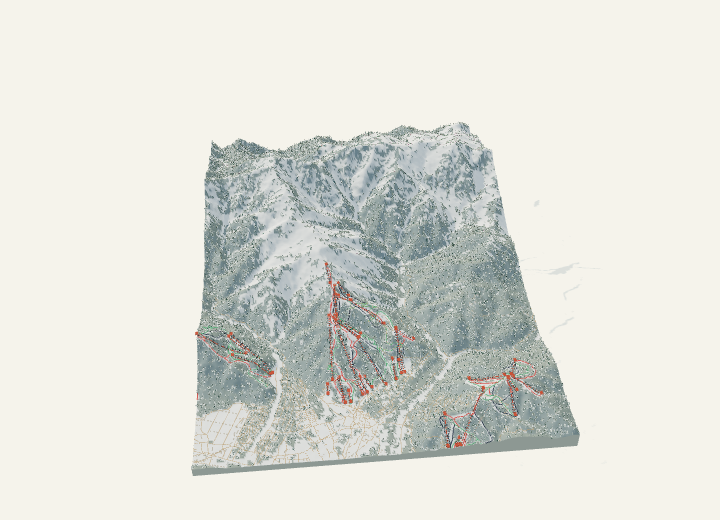
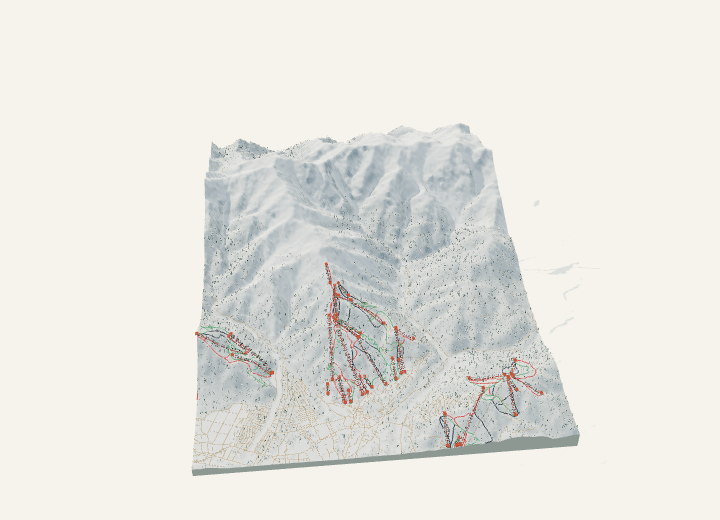
Correct Japanese winter forest rendering and consolidate map controls

Changed region(s): [[0.275, 0.2154, 0.825, 0.9231]]

diff --git a/src/main.ts b/src/main.ts
@@ -61,10 +61,10 @@ app.innerHTML=`
     <div class="map-tools" aria-label="Map controls"><button id="reset-view" title="Reset view" aria-label="Reset map view">${icon('compass')}</button><div class="zoom-tools"><button id="zoom-in" aria-label="Zoom in">${icon('plus')}</button><button id="zoom-out" aria-label="Zoom out">${icon('minus')}</button></div><button id="motion-toggle" aria-label="Pause mountain animation" title="Pause mountain animation">${icon('pause')}</button><button id="sound-toggle" aria-label="Enable mountain ambience" aria-pressed="false" title="Mountain ambience">${icon('muted')}</button></div>
     <div class="compass-rose" aria-hidden="true"><span>N</span><svg viewBox="0 0 64 64"><path d="M32 9 37 32 32 55 27 32Z" fill="none" stroke="currentColor"/><path d="m9 32 23-5 23 5-23 5Z" fill="none" stroke="currentColor"/><path d="m32 9 5 23h-5Z" fill="currentColor"/></svg></div>
     <section class="bottom-deck" aria-label="Weather">
-      <button id="settings-toggle" aria-expanded="false" aria-controls="rider-settings">Settings</button><button id="weather-drawer" aria-expanded="false" aria-controls="weather-timeline">Weather <span>＋</span></button><div class="timeline" id="weather-timeline" hidden><div class="timeline-heading"><span>${icon('snow')}<span id="timeline-title">Demo weekend</span></span><output id="time-label" for="time-slider">Saturday, 9 am</output></div><div class="timeline-controls"><button id="timeline-play" aria-label="Play weekend forecast">${icon('play')}</button><div class="slider-wrap"><input id="time-slider" type="range" min="0" max="48" step="1" value="17" aria-label="Explore forecast time"/><div class="time-ticks"><span id="tick-start">FRI · 4 PM</span><span id="tick-mid">SATURDAY</span><span id="tick-end">SUN · 4 PM</span></div></div></div></div>
+      <button id="settings-toggle" aria-expanded="false" aria-controls="rider-settings">Controls</button><button id="weather-drawer" aria-expanded="false" aria-controls="weather-timeline">Weather <span>＋</span></button><div class="timeline" id="weather-timeline" hidden><div class="timeline-heading"><span>${icon('snow')}<span id="timeline-title">Demo weekend</span></span><output id="time-label" for="time-slider">Saturday, 9 am</output></div><div class="timeline-controls"><button id="timeline-play" aria-label="Play weekend forecast">${icon('play')}</button><div class="slider-wrap"><input id="time-slider" type="range" min="0" max="48" step="1" value="17" aria-label="Explore forecast time"/><div class="time-ticks"><span id="tick-start">FRI · 4 PM</span><span id="tick-mid">SATURDAY</span><span id="tick-end">SUN · 4 PM</span></div></div></div></div>
     </section>
     <aside id="rider-settings" class="rider-settings" aria-labelledby="settings-title" hidden>
-      <div class="settings-heading"><h2 id="settings-title">Settings</h2><button id="close-settings" aria-label="Close settings">${icon('close')}</button></div>
+      <div class="settings-heading"><h2 id="settings-title">Controls</h2><button id="close-settings" aria-label="Close settings">${icon('close')}</button></div>
       ${(['skier','snowboarder'] as const).map(kind=>`<fieldset><legend>${kind==='skier'?'Skiers':'Snowboarders'}</legend><label class="settings-visibility"><span>Visible</span><input id="${kind}-visible" type="checkbox" data-rider-setting="${kind==='skier'?'skiers':'snowboarders'}" /></label><label class="settings-range" for="${kind}-size"><span>Size <output id="${kind}-size-value" for="${kind}-size"></output></span><input id="${kind}-size" data-rider-setting="${kind}Size" type="range" min="0.5" max="2" step="0.05" /></label><label class="settings-range" for="${kind}-speed"><span>Speed <output id="${kind}-speed-value" for="${kind}-speed"></output></span><input id="${kind}-speed" data-rider-setting="${kind}Speed" type="range" min="0" max="3" step="0.1" /></label></fieldset>`).join('')}
       <fieldset class="ecology-settings"><legend>Nature</legend><p id="ecology-description"></p><label class="settings-visibility"><span>Wildlife</span><input id="wildlife-visible" type="checkbox" checked /></label></fieldset>
       <p id="rider-settings-note">Size and speed are relative to the default.</p><button id="reset-rider-settings">Reset</button>
@@ -74,6 +74,15 @@ app.innerHTML=`
   <div id="toast" role="status" aria-live="polite"></div>
   <dialog id="about-dialog"><button id="close-about" aria-label="Close data notes">${icon('close')}</button><h2>Sources</h2><p>Terrain: <a href="https://github.com/tilezen/joerd/blob/master/docs/attribution.md" target="_blank" rel="noopener">Mapzen</a>. Trails, lifts, roads and buildings: <a href="https://www.openstreetmap.org/copyright" target="_blank" rel="noopener">OpenStreetMap · ODbL</a>. Forest cover: <a href="https://doi.org/10.5281/zenodo.7254221" target="_blank" rel="noopener">ESA WorldCover · CC BY 4.0</a>.</p><p>Terrain and routes use mapped coordinates. Trees, regional species mixes, wildlife, building heights, lift structures and moving riders are illustrative. Lift capacities link to their sources; missing specs and retired lifts are labeled. Coverage and conditions can differ from the official trail map.</p><p>Demo weather is simulated. Live weather uses <a href="https://open-meteo.com/" target="_blank" rel="noopener">Open-Meteo</a> forecasts, not observed snowfall or lift status. Pass access varies by season and pass.</p><p><a id="download-geodata" download>Download mountain data ↗</a></p></dialog>`;
 const $=<T extends HTMLElement=HTMLElement>(s:string)=>document.querySelector<T>(s)!;
+// Keep the map quiet: existing accessible controls live in one collapsible panel.
+const mapOptions=document.createElement('section');mapOptions.className='map-options';
+mapOptions.setAttribute('aria-label','Map controls');
+for(const selector of ['.main-nav','.terrain-controls','.map-tools'])mapOptions.append($(selector));
+$('#rider-settings').insertBefore(mapOptions,$('#rider-settings fieldset'));
+const weatherOptions=document.createElement('section');weatherOptions.className='weather-options';
+weatherOptions.setAttribute('aria-label','Weather controls');
+for(const selector of ['#weather-switch','#weather-drawer','#weather-timeline'])weatherOptions.append($(selector));
+mapOptions.after(weatherOptions);
 let atlas:AtlasScene | undefined;
 function ensureAtlas(){if(atlas)return;try{atlas=new AtlasScene($('#scene'),$('#map-labels'),id=>selectResort(id,true));atlas.riderSettings={...riderSettings};atlas.showWildlife=wildlifeVisible;}catch{$('#scene').innerHTML='<div class="canvas-error">3D map unavailable. Try a browser with WebGL enabled.</div>';}}
 let galleryScroll=0;
@@ -149,11 +158,11 @@ $('#motion-toggle').onclick=()=>{if(!atlas)return;const wasPaused=atlas.paused||
 for(const el of document.querySelectorAll<HTMLButtonElement>('[data-region]'))el.onclick=()=>setRegion(el.dataset.region as Region);
 for(const el of document.querySelectorAll<HTMLButtonElement>('[data-pass]'))el.onclick=()=>{pass=el.dataset.pass as Pass;const list=visibleResorts();renderList();};
 let guideTrigger:HTMLElement|null=null;
-function toggleGuide(open:boolean){if(open)toggleSettings(false);if(open&&$('#field-guide').hidden)guideTrigger=document.activeElement as HTMLElement;$('#field-guide').hidden=!open;document.body.classList.toggle('guide-open',open);$('#atlas-tab').setAttribute('aria-expanded',String(open));$('#saved-tab').setAttribute('aria-expanded',String(open&&view==='saved'));if(open)$('#close-guide').focus();}
+function toggleGuide(open:boolean){if(open)toggleSettings(false);if(open&&$('#field-guide').hidden)guideTrigger=$('#rider-settings').contains(document.activeElement)?$('#settings-toggle'):document.activeElement as HTMLElement;$('#field-guide').hidden=!open;document.body.classList.toggle('guide-open',open);$('#atlas-tab').setAttribute('aria-expanded',String(open));$('#saved-tab').setAttribute('aria-expanded',String(open&&view==='saved'));if(open)$('#close-guide').focus();}
 $('#atlas-tab').setAttribute('aria-controls','field-guide');$('#atlas-tab').setAttribute('aria-expanded','false');
 $('#atlas-tab').onclick=()=>{view='atlas';render();toggleGuide($('#field-guide').hidden);};$('#saved-tab').onclick=()=>{view='saved';explorer='places';renderList();toggleGuide(true);};
 $('#close-guide').onclick=()=>{toggleGuide(false);guideTrigger?.focus();};
-$('#weather-drawer').onclick=()=>{toggleSettings(false);const open=$('#weather-timeline').hidden;$('#weather-timeline').hidden=!open;$('#weather-drawer').setAttribute('aria-expanded',String(open));$('#weather-drawer span').textContent=open?'−':'＋';};
+$('#weather-drawer').onclick=()=>{const open=$('#weather-timeline').hidden;$('#weather-timeline').hidden=!open;$('#weather-drawer').setAttribute('aria-expanded',String(open));$('#weather-drawer span').textContent=open?'−':'＋';};
 window.addEventListener('keydown',e=>{if(e.key==='Escape'){if(!$('#rider-settings').hidden){toggleSettings(false);$('#settings-toggle').focus();return;}if(!$('#field-guide').hidden){toggleGuide(false);guideTrigger?.focus();}else if(!$('#route-card').hidden){$('#route-card').hidden=true;atlas?.clearFocus();atlas?.renderer.domElement.focus();}else if(!$('#weather-timeline').hidden)$('#weather-drawer').focus();$('#weather-timeline').hidden=true;$('#weather-drawer').setAttribute('aria-expanded','false');$('#weather-drawer span').textContent='＋';}});
 const dialog=$<HTMLDialogElement>('#about-dialog');$('#about-button').onclick=()=>dialog.showModal();$('#close-about').onclick=()=>dialog.close();dialog.addEventListener('click',e=>{if(e.target===dialog){const r=dialog.getBoundingClientRect();if(e.clientX<r.left||e.clientX>r.right||e.clientY<r.top||e.clientY>r.bottom)dialog.close();}});
 let audio:AudioContext|undefined,audioGain:GainNode|undefined,audioEnabled=false;

diff --git a/src/ecology.ts b/src/ecology.ts
@@ -1,20 +1,23 @@
 import type { Resort } from './data';
 export type TreeForm='pine'|'fir'|'spruce'|'hemlock'|'birch'|'aspen'|'larch';
 export type AnimalForm='deer'|'elk'|'chamois'|'serow'|'hare';
-export interface Ecology {id:string;name:string;trees:TreeForm[];colors:number[];density:number;treeline:number;wildlife:AnimalForm;animalName:string;understory:string;}
+export interface Ecology {id:string;name:string;trees:TreeForm[];colors:number[];density:number;treeline:number;wildlife:AnimalForm;animalName:string;understory:string;winterTint?:number;bareUpper?:boolean;}
 const profiles:Record<string,Ecology>={
  sierra:{id:'sierra',name:'Sierra pine & fir',trees:['pine','pine','fir'],colors:[0x5b7256,0x758467,0x436654],density:.8,treeline:3200,wildlife:'deer',animalName:'Mule deer',understory:'Low evergreen scrub'},
  coastal:{id:'coastal',name:'Coastal hemlock & fir',trees:['hemlock','hemlock','fir'],colors:[0x315c50,0x46695a,0x537464],density:1,treeline:1900,wildlife:'deer',animalName:'Black-tailed deer',understory:'Snow-covered shrubs'},
  interior:{id:'interior',name:'Interior spruce & pine',trees:['spruce','pine','fir'],colors:[0x48665c,0x5d7866,0x668176],density:.9,treeline:2350,wildlife:'deer',animalName:'Mule deer',understory:'Low woody shrubs'},
  rockies:{id:'rockies',name:'Rocky Mountain spruce & aspen',trees:['spruce','fir','aspen','pine'],colors:[0x506d63,0x6c8070,0x47605a],density:.8,treeline:3450,wildlife:'elk',animalName:'Elk',understory:'Bare willow-like scrub'},
  alps:{id:'alps',name:'Alpine larch & stone pine',trees:['larch','pine','spruce'],colors:[0x637662,0x7e846b,0x506354],density:.75,treeline:2350,wildlife:'chamois',animalName:'Chamois',understory:'Low evergreen heath'},
- hokkaido:{id:'hokkaido',name:'Hokkaido birch & fir',trees:['birch','birch','fir'],colors:[0x657568,0x748778,0x4c685c],density:.85,treeline:1350,wildlife:'deer',animalName:'Sika deer',understory:'Snow-covered woody scrub'},
- honshu:{id:'honshu',name:'Japanese Alps birch & conifers',trees:['birch','pine','fir'],colors:[0x687766,0x7c8772,0x496456],density:.8,treeline:2500,wildlife:'serow',animalName:'Japanese serow',understory:'Low mountain-pine scrub'},
+ hokkaido:{id:'hokkaido',name:'Hokkaido winter birch',trees:['birch','birch','birch','birch','birch','fir'],colors:[0x657568,0x748778,0x4c685c],density:.58,treeline:1150,winterTint:.16,bareUpper:true,wildlife:'deer',animalName:'Sika deer',understory:'Snow-covered woody scrub'},
+ honshu:{id:'honshu',name:'Japanese Alps birch & conifers',trees:['birch','birch','birch','fir'],colors:[0x687766,0x7c8772,0x496456],density:.65,treeline:2100,winterTint:.23,bareUpper:true,wildlife:'serow',animalName:'Japanese serow',understory:'Low mountain-pine scrub'},
  alaska:{id:'alaska',name:'Alaskan spruce & hemlock',trees:['spruce','hemlock','birch'],colors:[0x48695f,0x5e7c70,0x728578],density:.7,treeline:750,wildlife:'hare',animalName:'Snowshoe hare',understory:'Bare alder-like scrub'},
 };
 export function ecologyFor(resort:Pick<Resort,'id'|'region'|'area'|'lat'|'lon'>):Ecology{
  if(resort.region==='alps')return profiles.alps;
- if(resort.region==='japan')return profiles[resort.id==='hakuba'?'honshu':'hokkaido'];
+ if(resort.region==='japan'){
+  if(resort.id==='iwanai')return {...profiles.hokkaido,name:'Iwanai winter woodland',treeline:950,density:.5};
+  return profiles[resort.id==='hakuba'?'honshu':'hokkaido'];
+ }
  if(resort.area==='Alaska')return profiles.alaska;
  if(resort.area==='California')return profiles.sierra;
  if(resort.lon< -121)return profiles.coastal;
@@ -24,6 +27,7 @@ export function ecologyFor(resort:Pick<Resort,'id'|'region'|'area'|'lat'|'lon'>)
 // Approximate regional winter structure, not a species inventory or surveyed treeline.
 export function treeAtElevation(profile:Ecology,elevation:number,choice:number){
  const exposure=Math.max(0,Math.min(1,(elevation-(profile.treeline-450))/650));
- const forms=elevation>profile.treeline-250?profile.trees.filter(t=>t!=='aspen'):profile.trees;
- return {form:forms[Math.min(forms.length-1,Math.floor(choice*forms.length))],scale:1-exposure*.6,density:profile.density*(1-exposure*.82)};
+ const forms=profile.bareUpper&&elevation>profile.treeline-300?profile.trees.filter(t=>t==='birch'):elevation>profile.treeline-250?profile.trees.filter(t=>t!=='aspen'):profile.trees;
+ const alpineFade=profile.bareUpper?Math.max(0,Math.min(1,(profile.treeline-elevation)/220)):1;
+ return {form:forms[Math.min(forms.length-1,Math.floor(choice*forms.length))],scale:1-exposure*.6,density:profile.density*(1-exposure*.82)*alpineFade};
 }

diff --git a/src/scene.ts b/src/scene.ts
@@ -88,7 +88,7 @@ export class AtlasScene {
   const maskData=ctx.getImageData(0,0,1024,1024).data;
   const forestAt=(x:number,z:number)=>{const i=Math.floor((x/d.width+.5)*1023),j=Math.floor((z/d.depth+.5)*1023);if(i<0||i>1023||j<0||j>1023)return 0;return maskData[(j*1024+i)*4+3]/255;};
   const snow=new THREE.Color(0xf1eee0),green=new THREE.Color(this.ecology!.colors[0]),rock=new THREE.Color(0x909f9e);
-  for(let j=0;j<n;j++)for(let i=0;i<n;i++){const x=(i/(n-1)-.5)*d.width,z=(j/(n-1)-.5)*d.depth,h=d.heights[j*n+i];vertices.push(x*this.scale,(h-this.minElevation)*this.scale*this.exaggeration,z*this.scale);uv.push(i/(n-1),1-j/(n-1));const dx=(d.heights[j*n+Math.min(n-1,i+1)]-d.heights[j*n+Math.max(0,i-1)])/(2*d.width/(n-1)),dz=(d.heights[Math.min(n-1,j+1)*n+i]-d.heights[Math.max(0,j-1)*n+i])/(2*d.depth/(n-1));const slope=Math.hypot(dx,dz);const forest=forestAt(x,z);const c=snow.clone().lerp(green,forest*.80);if(slope>.8)c.lerp(rock,clamp((slope-.8)*.75,0,.75));const aspect=clamp((dx*.4+dz*.25),-.2,.2);c.lerp(new THREE.Color(0x8aa4b6),Math.max(0,-aspect));colors.push(c.r,c.g,c.b);}
+  for(let j=0;j<n;j++)for(let i=0;i<n;i++){const x=(i/(n-1)-.5)*d.width,z=(j/(n-1)-.5)*d.depth,h=d.heights[j*n+i];vertices.push(x*this.scale,(h-this.minElevation)*this.scale*this.exaggeration,z*this.scale);uv.push(i/(n-1),1-j/(n-1));const dx=(d.heights[j*n+Math.min(n-1,i+1)]-d.heights[j*n+Math.max(0,i-1)])/(2*d.width/(n-1)),dz=(d.heights[Math.min(n-1,j+1)*n+i]-d.heights[Math.max(0,j-1)*n+i])/(2*d.depth/(n-1));const slope=Math.hypot(dx,dz);const forest=forestAt(x,z);const c=snow.clone().lerp(green,forest*(this.ecology!.winterTint??.80)*(this.ecology!.bareUpper?Math.max(0,Math.min(1,(this.ecology!.treeline-h)/220)):1));if(slope>.8)c.lerp(rock,clamp((slope-.8)*.75,0,.75));const aspect=clamp((dx*.4+dz*.25),-.2,.2);c.lerp(new THREE.Color(0x8aa4b6),Math.max(0,-aspect));colors.push(c.r,c.g,c.b);}
   for(let j=0;j<n-1;j++)for(let i=0;i<n-1;i++){const a=j*n+i,b=a+1,c=a+n,e=c+1;indices.push(a,c,b,b,c,e);}
   const geometry=new THREE.BufferGeometry();geometry.setAttribute('position',new THREE.Float32BufferAttribute(vertices,3));geometry.setAttribute('normal',new THREE.Float32BufferAttribute(new Float32Array(vertices.length),3));geometry.setAttribute('uv',new THREE.Float32BufferAttribute(uv,2));geometry.setAttribute('color',new THREE.Float32BufferAttribute(colors,3));geometry.setIndex(indices);geometry.computeVertexNormals();
   const mesh=new THREE.Mesh(geometry,new THREE.MeshStandardMaterial({vertexColors:true,roughness:1,metalness:0}));mesh.receiveShadow=true;mesh.castShadow=true;this.geometryGroup.add(mesh);

diff --git a/src/gallery.css b/src/gallery.css
@@ -142,3 +142,28 @@ button:active:not(:disabled){filter:brightness(.9)}
  .timeline{bottom:96px;max-height:calc(100dvh - 112px)}
 }
 @media(max-height:520px) and (pointer:coarse){.map-tools .zoom-tools{flex-direction:row}.map-tools{flex-wrap:nowrap}}
+
+/* One opt-in control surface; the landscape fills the resting view. */
+.touch-hint,.compass-rose{display:none!important}
+#scene,#map-labels{inset:112px 0 82px}
+.rider-settings .main-nav,.rider-settings .terrain-controls,.rider-settings .map-tools,.rider-settings .weather-switch,.rider-settings .timeline{position:static;inset:auto;transform:none;width:auto;height:auto;max-height:none;margin:0}
+.rider-settings .main-nav{display:flex;justify-content:flex-start;gap:24px}
+.rider-settings .terrain-controls{display:flex;flex-wrap:wrap;justify-content:flex-start;gap:16px;overflow:visible;padding:12px 0}
+.rider-settings .terrain-controls>a{position:static;font-size:12px;min-height:32px;display:inline-flex;align-items:center}
+.rider-settings .terrain-controls button{font-size:12px;min-height:36px}
+.rider-settings .layer-toggles{flex-wrap:wrap;gap:14px}
+.rider-settings .map-tools{display:flex;flex-direction:row;gap:8px;border:0;background:none}
+.rider-settings .zoom-tools{display:flex;flex-direction:row}
+.rider-settings .map-tools button{width:40px;height:40px}
+.map-options,.weather-options{padding:0 0 18px;margin-bottom:20px;border-bottom:1px solid #293e3525}
+.weather-options{display:flex;flex-wrap:wrap;align-items:center;gap:16px}
+.rider-settings .weather-switch{display:inline-flex;min-height:40px;font-size:12px}
+.rider-settings .timeline{flex-basis:100%;padding:12px 0;border:0;box-shadow:none;background:none}
+.rider-settings #weather-drawer{font-size:12px;min-height:40px}
+.rider-settings .timeline-controls{min-width:0}.rider-settings .slider-wrap{min-width:0}
+@media(max-width:760px),(max-width:1024px) and (pointer:coarse){
+ #scene,#map-labels{inset:104px 0 calc(124px + env(safe-area-inset-bottom))}
+ .intro{top:72px}.rider-settings .main-nav{height:auto}
+ .rider-settings .terrain-controls button{min-height:44px}
+}
+@media(max-height:520px) and (pointer:coarse){#scene,#map-labels{inset:88px 0 100px}}

diff --git a/src/ecology-models.ts b/src/ecology-models.ts
@@ -6,6 +6,19 @@ export function localeTreeGeometry(form:TreeForm,snow=false){
  const p=new Parts(),bare=['birch','aspen','larch'].includes(form),height=form==='hemlock'?2.3:form==='pine'?1.9:form==='spruce'?2.05:1.8;
  const bark=form==='birch'||form==='aspen'?0xe2ded0:0x756954;
  if(!snow)p.add(new THREE.CylinderGeometry(.023,.065,height,5),bark,0,height/2,0);
+ // Birch crowns fork upward irregularly; they are not tiered evergreen silhouettes.
+ if(form==='birch'){
+  for(let branch=0;branch<9;branch++){
+   const angle=branch*2.399,y=.45+branch*.12,start=v(0,y,0);
+   const elbow=v(Math.cos(angle)*(.20+branch%3*.045),y+.22,Math.sin(angle)*(.20+branch%3*.045));
+   const end=elbow.clone().add(v(Math.cos(angle+.3)*.17,.25,Math.sin(angle+.3)*.17));
+   p.rod(start,elbow,snow?.008:.018,snow?0xeeeede:bark);
+   p.rod(elbow,end,snow?.006:.011,snow?0xeeeede:bark);
+   if(!snow){const fork=elbow.clone().add(v(Math.cos(angle+1)*.2,.18,Math.sin(angle+1)*.2));p.rod(elbow,fork,.008,bark);}
+  }
+  if(!snow)for(let i=0;i<6;i++)p.box(.055,.025,.06,0x776f62,.012,.2+i*.23,0);
+  return p.finish();
+ }
  const tiers=bare?4:5;
  for(let tier=0;tier<tiers;tier++)for(let branch=0;branch<4;branch++){
   const angle=branch*Math.PI/2+tier*1.7,y=.38+tier*height/6;
@@ -18,7 +31,7 @@ export function localeTreeGeometry(form:TreeForm,snow=false){
    const g=new THREE.TetrahedronGeometry(1);g.scale(radius,snow?.055:.16,radius*.52);g.rotateY(-angle);p.add(g,snow?0xececdf:0xffffff,end.x*.5,y+(snow?.1:0),end.z*.5);
   }
  }
- if(!snow&&(form==='birch'||form==='aspen'))for(let i=0;i<6;i++)p.box(.055,.025,.06,0x776f62,.012,.2+i*.23,0);
+ if(!snow&&form==='aspen')for(let i=0;i<6;i++)p.box(.055,.025,.06,0x776f62,.012,.2+i*.23,0);
  return p.finish();
 }
 export function shrubGeometry(evergreen:boolean){

diff --git a/README.md b/README.md
@@ -16,7 +16,7 @@ Inspired by the artistry of painted ski trail maps, Powder Mountain’s 3D map, 
 - **Real terrain and mapped trails**, with named runs, lifts, roads, buildings, and lodge landmarks.
 - **Local nature:** eight regional winter palettes, varied tree silhouettes, elevation-sensitive vegetation, and subtle wildlife you can hide in Settings. [Ecology notes](research/ECOLOGY.md) explain the references and limits.
 - **Animated mountain life:** chairs, gondolas, trams, skiers, and snowboarders. Carrier capacities come from mapped tags and linked research; unknown capacities are left unmodeled.
-- **Tune the mountain:** Settings offers separate skier and snowboarder visibility, size, and speed controls, saved locally.
+- **Tune the mountain:** Controls offers separate skier and snowboarder visibility, size, and speed controls, saved locally.
 - **Pan, orbit, zoom**, switch to an overhead view, follow a trail, or ride a lift.
 - **Find your next mountain** with Ikon/Epic filters, saved favorites, and optional live snowfall forecasts.
 - **A quiet collection view:** terrain portraits first, details when you want them.
@@ -52,7 +52,7 @@ npm run build # TypeScript check and production build
 | Explore on touch | One finger follows Pan / Rotate mode; two fingers pan and pinch-zoom in either mode |
 | Return to the collection | Mountains button |
 
-Select a trail, lift, or lodge to explore it. **Explore** opens the searchable map guide; **Weather** opens the forecast and timeline. Each mountain has a shareable URL, such as `/palisades`.
+Select a trail, lift, or lodge to explore it. **Controls** reveals the map tools, searchable **Explore** guide, **Weather** timeline, and rider settings. Each mountain has a shareable URL, such as `/palisades`.
 
 ## How it works
 
@@ -76,6 +76,6 @@ This is an exploratory art project, not an official navigation map. Community ma
 
 Source datasets retain their respective licenses; see [data attribution](docs/DEVELOPMENT.md#sources-and-licensing).
 
-On phones and tablets, swipe the map toolbar sideways for layers and map links. Settings and Explore open as scrollable panels. Layouts account for safe areas, dynamic browser height, and landscape orientation.
+On phones and tablets, Controls and Explore open as scrollable panels. Layouts account for safe areas, dynamic browser height, and landscape orientation.
 
 Direct mountain URLs such as `/breckenridge` and `/iwanai` work on refresh. `/iwawai` is an alias for Iwanai, and old hash links redirect to their clean paths. The production build includes an entry page for every mountain, so static hosts need no special SPA rewrite for these routes.

diff --git a/research/ECOLOGY.md b/research/ECOLOGY.md
@@ -31,3 +31,14 @@ Consulted September 19, 2026. Regional references support the motifs, not exact 
 ## Implementation
 
 `src/ecology.ts` assigns regional profiles using resort metadata. `src/ecology-models.ts` builds instanced tree, shrub and wildlife geometry. Wildlife and shrub counts are bounded; there are no new texture downloads. `tests/ecology.test.mjs` covers all resort assignments, elevation transitions and finite geometry. `node scripts/check-ecology.mjs` exercises representative scenes and the saved wildlife preference with Vite running on port 5173.
+
+## Japan winter correction
+
+The former green forest floor exaggerated evergreen canopy in winter, and the shared Hokkaido transition left trees on Iwanai's exposed summit. Japan now uses a much lighter snow-covered forest tint, predominantly leafless branching silhouettes, and a taper to open upper slopes. Iwanai has its own lower transition.
+
+References checked September 19, 2026:
+- [Niseko Town natural environment](https://www.town.niseko.lg.jp/chosei/keikaku/plan/kifon_keikaku/nature?wovn=en) and [Niseko United's Erman's birch forest reference](https://www.niseko.ne.jp/ja/news/ニセコの絶景紅葉スポット8選！/).
+- [Iwanai hiking field observations](https://hokkaidowilds.org/hiking/iwanai-dake-and-raiden-yama-hiking): forest gives way to shrubs and an open upper shoulder.
+- [Happo-one hiking guide](https://www.happo-one.jp/en/trekking/) and [upper alpine environment](https://www.happo-one.jp/happo-ike/).
+
+Forest placement still follows the supplied ESA/OSM masks, excluding mapped piste clearings. Terrain heights and trail geometry are unchanged. Species weights and the 950 m Iwanai / 1,150 m other Hokkaido / 2,100 m Hakuba transitions are **visual approximations**, not measured treelines or species-level mapping. Local aspect, sheltered gullies and individual tree positions are not resolved by this model.
